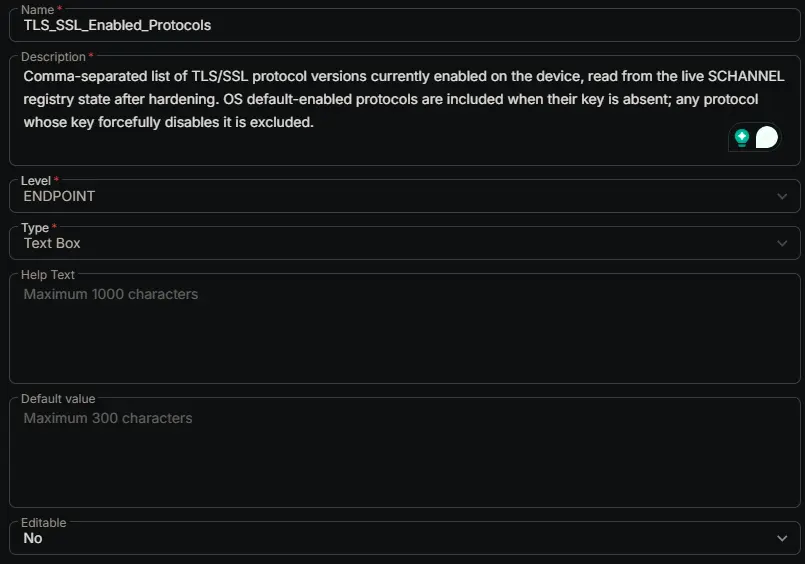
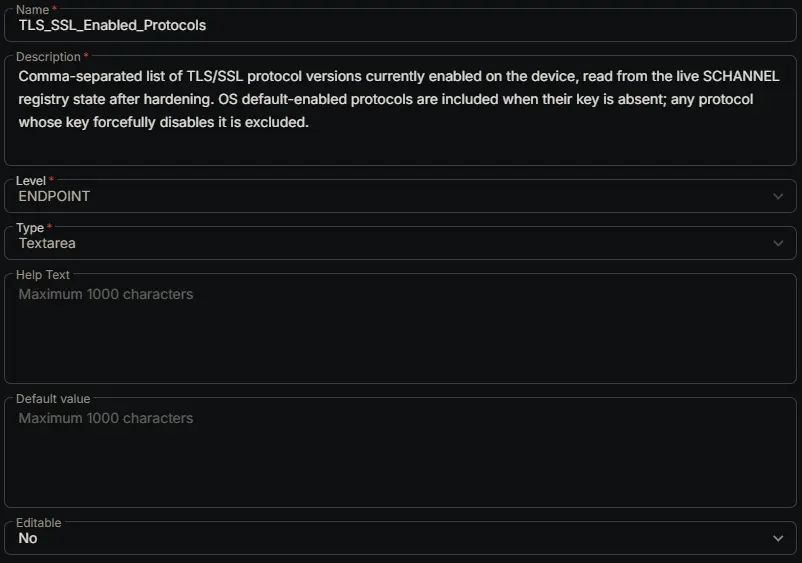
Custom Field
- Converted the custom field type to text area

diff --git a/docs/solutions/tls-ssl-security-hardening-cw-rmm.md b/docs/solutions/tls-ssl-security-hardening-cw-rmm.md
@@ -74,7 +74,7 @@ This single field is the shared state for the whole solution: the task writes it
 
 | Name | Level | Type | Purpose |
 | --- | --- | --- | --- |
-| [TLS_SSL_Enabled_Protocols](/docs/a90fed7d-ec54-429a-a7cf-14a1af8870bb) | Endpoint | Text Box | Comma‑separated list of the TLS/SSL protocol versions currently enabled on the device, read from the live registry after hardening. Written by the task and read by the compliance group; not user‑editable. |
+| [TLS_SSL_Enabled_Protocols](/docs/a90fed7d-ec54-429a-a7cf-14a1af8870bb) | Endpoint | Textarea | Comma‑separated list of the TLS/SSL protocol versions currently enabled on the device, read from the live registry after hardening. Written by the task and read by the compliance group; not user‑editable. |
 
 ## Implementation
 
@@ -119,49 +119,49 @@ Once the monitor is live it will find and fix non‑compliant devices on its own
 ## FAQ
 
 **Q: In plain terms, what does this solution do?**  
-It keeps your Windows devices set up to use the modern, secure connection protocols the platform requires. It checks each device on a schedule, and if a device is not configured correctly it fixes it automatically, so devices do not quietly fall out of compliance and lose the ability to talk to our services.
+> It keeps your Windows devices set up to use the modern, secure connection protocols the platform requires. It checks each device on a schedule, and if a device is not configured correctly it fixes it automatically, so devices do not quietly fall out of compliance and lose the ability to talk to our services.
 
 **Q: How does a device actually get fixed?**  
-You usually do not have to do anything. The compliance monitor checks the device, sees that something is wrong, and launches the hardening task against it as its automatic action. The task then changes only the settings that are not already correct and records the result.
+> You usually do not have to do anything. The compliance monitor checks the device, sees that something is wrong, and launches the hardening task against it as its automatic action. The task then changes only the settings that are not already correct and records the result.
 
 **Q: Do I ever need to run the hardening task myself?**  
-Not for the routine case; the monitor handles it. You would run the task by hand when you want an immediate, fleet‑wide hardening instead of waiting up to 24 hours for the monitor to reach every device, or when you want to target a specific set of machines (for example the `TLS 1.2 Not Enabled` group).
+> Not for the routine case; the monitor handles it. You would run the task by hand when you want an immediate, fleet‑wide hardening instead of waiting up to 24 hours for the monitor to reach every device, or when you want to target a specific set of machines (for example the `TLS 1.2 Not Enabled` group).
 
 **Q: When do the changes take effect?**  
-The new settings are saved to the device straight away, but Windows only loads them at start‑up, so they are not active until the device is rebooted. Enable `ForceReboot` on the task to reboot automatically after a change, or reboot the device yourself during a maintenance window.
+> The new settings are saved to the device straight away, but Windows only loads them at start‑up, so they are not active until the device is rebooted. Enable `ForceReboot` on the task to reboot automatically after a change, or reboot the device yourself during a maintenance window.
 
 **Q: Will this reboot my machines unexpectedly?**  
-Only if `ForceReboot` is enabled and the task actually changed at least one setting on that run. A re‑run on a device that is already compliant changes nothing and therefore never reboots, even with `ForceReboot` on. With `ForceReboot` disabled the task never reboots at all.
+> Only if `ForceReboot` is enabled and the task actually changed at least one setting on that run. A re‑run on a device that is already compliant changes nothing and therefore never reboots, even with `ForceReboot` on. With `ForceReboot` disabled the task never reboots at all.
 
 **Q: A device shows as compliant, but I have not rebooted it yet. Is it really fixed?**  
-It is correctly configured on disk, which is what the monitor reads, so the monitor reports it as compliant. However, the new protocol and encryption settings are not active in the running system until the device reboots, so the reboot is still required for the hardening to be in use.
+> It is correctly configured on disk, which is what the monitor reads, so the monitor reports it as compliant. However, the new protocol and encryption settings are not active in the running system until the device reboots, so the reboot is still required for the hardening to be in use.
 
 **Q: How quickly will a non‑compliant device be fixed?**  
-The monitor runs on a schedule, every 24 hours by default, so in the worst case it can take about a day from the moment a device drifts out of compliance to the moment the monitor notices and launches the fix. Run the hardening task directly if you cannot wait for the next check.
+> The monitor runs on a schedule, every 24 hours by default, so in the worst case it can take about a day from the moment a device drifts out of compliance to the moment the monitor notices and launches the fix. Run the hardening task directly if you cannot wait for the next check.
 
 **Q: What happens on Windows Server 2008 and 2008 R2?**  
-Those operating systems do not support TLS 1.2, so the task cannot switch it on there. It will still switch the old, insecure protocols off, but after a reboot such a device may have no supported protocol left and could lose connectivity. For those machines the right step is an operating‑system upgrade, and a compliant result on the monitor should not be taken as proof that the device can connect.
+> Those operating systems do not support TLS 1.2, so the task cannot switch it on there. It will still switch the old, insecure protocols off, but after a reboot such a device may have no supported protocol left and could lose connectivity. For those machines the right step is an operating‑system upgrade, and a compliant result on the monitor should not be taken as proof that the device can connect.
 
 **Q: Does the solution create support tickets?**  
-Not by default. The monitor is set up to fix problems quietly: a non‑compliant device launches the hardening task and opens no ticket, and a failed check does not escalate. If you would rather receive a ticket when a device is non‑compliant, that is a separate setting you can switch on in the monitor configuration.
+> Not by default. The monitor is set up to fix problems quietly: a non‑compliant device launches the hardening task and opens no ticket, and a failed check does not escalate. If you would rather receive a ticket when a device is non‑compliant, that is a separate setting you can switch on in the monitor configuration.
 
 **Q: What does the `TLS 1.2 Not Enabled` group show me?**  
-It is a live list of the Windows devices whose enabled‑protocol list does not yet include TLS 1.2. It updates automatically as the custom field changes, so it works as a rollout dashboard (it should shrink toward empty) and as a convenient target if you want to run the hardening task on just the devices that still need it.
+> It is a live list of the Windows devices whose enabled‑protocol list does not yet include TLS 1.2. It updates automatically as the custom field changes, so it works as a rollout dashboard (it should shrink toward empty) and as a convenient target if you want to run the hardening task on just the devices that still need it.
 
 **Q: What is stored in the `TLS_SSL_Enabled_Protocols` field?**  
-A comma‑separated list of the protocol versions that are enabled on the device, read from the live settings after hardening (for example `TLS 1.2, TLS 1.3`). An empty value means no protocol is currently enabled on that device, which on the oldest operating systems is the expected result after the legacy protocols are switched off.
+> A comma‑separated list of the protocol versions that are enabled on the device, read from the live settings after hardening (for example `TLS 1.2, TLS 1.3`). An empty value means no protocol is currently enabled on that device, which on the oldest operating systems is the expected result after the legacy protocols are switched off.
 
 **Q: Is it safe to run the hardening task many times?**  
-Yes. The task is repeatable by design: it writes a setting only when the current value differs from the required value, so running it again on a compliant device changes nothing, causes no disruption and triggers no reboot.
+> Yes. The task is repeatable by design: it writes a setting only when the current value differs from the required value, so running it again on a compliant device changes nothing, causes no disruption and triggers no reboot.
 
 **Q: Why would the monitor say work is needed on a brand‑new device?**  
-A device that has never been hardened does not yet have the explicit settings laid down, so the monitor correctly reports that work is needed on the first check. That is the intended first‑run trigger; once the task runs, the following check should report the device as compliant.
+> A device that has never been hardened does not yet have the explicit settings laid down, so the monitor correctly reports that work is needed on the first check. That is the intended first‑run trigger; once the task runs, the following check should report the device as compliant.
 
 **Q: How does the monitor decide whether a device needs fixing?**  
-The monitor's script prints exactly one line, and the monitor set compares that line with a *Contains* condition. The work‑needed line begins with `Autofix Required` (followed by the specific reasons) and the healthy line is `Autofix Not Required`. Set the monitor set's *Script Output* condition to exactly `Autofix Required`; because the healthy line never contains that phrase, the two states stay cleanly separated and the auto‑fix only runs when there is real work to do.
+> The monitor's script prints exactly one line, and the monitor set compares that line with a *Contains* condition. The work‑needed line begins with `Autofix Required` (followed by the specific reasons) and the healthy line is `Autofix Not Required`. Set the monitor set's *Script Output* condition to exactly `Autofix Required`; because the healthy line never contains that phrase, the two states stay cleanly separated and the auto‑fix only runs when there is real work to do.
 
 **Q: The monitor and the task seem to do similar things. Why are there two?**  
-They have different jobs. The monitor only looks and decides; it never changes anything, so it is safe to run on a schedule across the whole fleet. The task only changes things; it is the action the monitor calls when it finds a problem. Keeping the read‑only check separate from the change‑making action is what lets the solution watch continuously and act only where needed.
+> They have different jobs. The monitor only looks and decides; it never changes anything, so it is safe to run on a schedule across the whole fleet. The task only changes things; it is the action the monitor calls when it finds a problem. Keeping the read‑only check separate from the change‑making action is what lets the solution watch continuously and act only where needed.
 
 ## Changelog
 

diff --git a/docs/cwrmm/custom-fields/tls-ssl-enabled-protocols.md b/docs/cwrmm/custom-fields/tls-ssl-enabled-protocols.md
@@ -28,7 +28,7 @@ Comma-separated list of TLS/SSL protocol versions currently enabled on the devic
 
 | Name | Description | Level | Type | Option Type | Options | Help Text | Default Value | Editable |
 |---|---|---|---|---|---|---|---|---|
-| TLS_SSL_Enabled_Protocols | Comma-separated list of TLS/SSL protocol versions currently enabled on the device, read from the live SCHANNEL registry state after hardening. OS default-enabled protocols are included when their key is absent; any protocol whose key forcefully disables it is excluded. | `Endpoint` | `Text Box` | | | | | `No` |
+| TLS_SSL_Enabled_Protocols | Comma-separated list of TLS/SSL protocol versions currently enabled on the device, read from the live SCHANNEL registry state after hardening. OS default-enabled protocols are included when their key is absent; any protocol whose key forcefully disables it is excluded. | `Endpoint` | `Textarea` | | | | | `No` |
 
 ## Completed Custom Field
 
